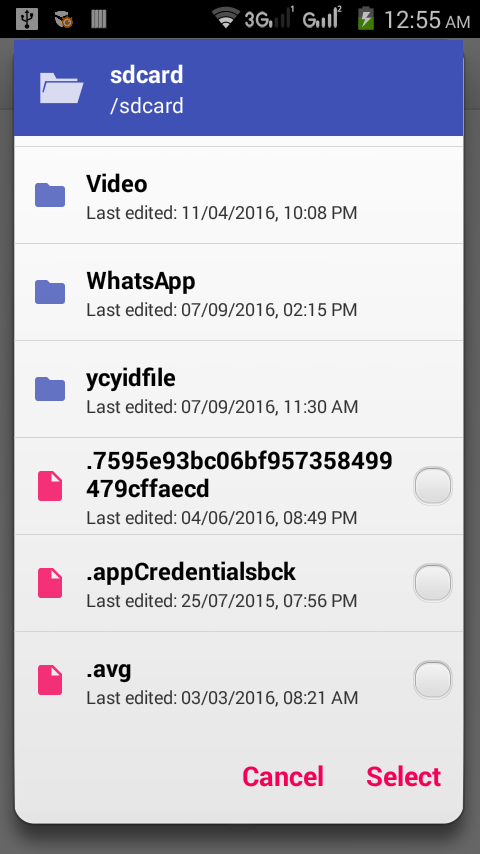
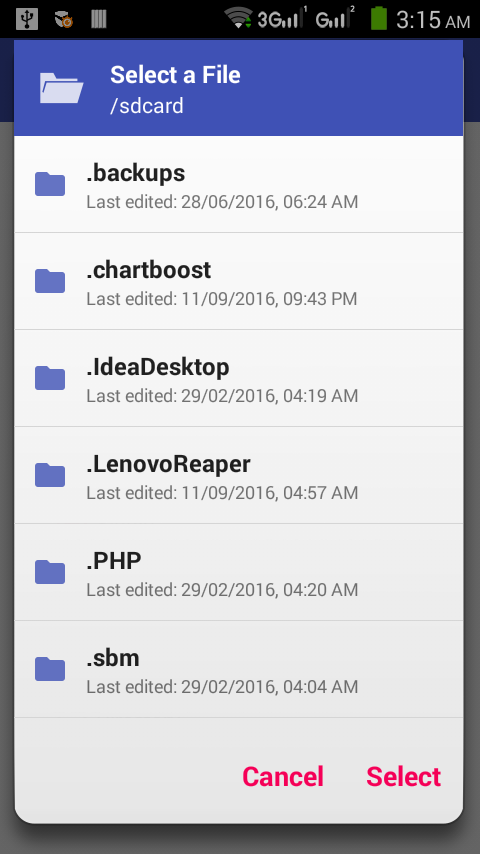
style: Updated readme.md and changed screenshot.

diff --git a/app/src/main/java/com/github/angads25/filepickerdemo/MainActivity.java b/app/src/main/java/com/github/angads25/filepickerdemo/MainActivity.java
@@ -59,6 +59,7 @@ public class MainActivity extends AppCompatActivity
 
         //Instantiate FilePickerDialog with Context and DialogProperties.
         dialog=new FilePickerDialog(MainActivity.this,properties);
+        dialog.setTitle("Select a File");
         RadioGroup modeRadio=(RadioGroup)findViewById(R.id.modeRadio);
         modeRadio.check(R.id.singleRadio);
         modeRadio.setOnCheckedChangeListener(new RadioGroup.OnCheckedChangeListener() {

diff --git a/Readme.md b/Readme.md
@@ -5,7 +5,7 @@ Android Library to select files/directories from Device Storage.
 [Angad Singh](https://www.github.com/angads25) ([@angads25](https://www.twitter.com/angads25))
 
 ### Benchmark:
-[![API](https://img.shields.io/badge/API-9%2B-brightgreen.svg?style=flat)](https://android-arsenal.com/api?level=9) <a href="http://www.methodscount.com/?lib=com.github.angads25%3Afilepicker%3A1.0.4"><img src="https://img.shields.io/badge/Size-28 KB-e91e63.svg"/></a>
+[![API](https://img.shields.io/badge/API-9%2B-brightgreen.svg?style=flat)](https://android-arsenal.com/api?level=9) <a href="http://www.methodscount.com/?lib=com.github.angads25%3Afilepicker%3A1.0.5"><img src="https://img.shields.io/badge/Size-28 KB-e91e63.svg"/></a>
 
 ### Where to Find:
 [ ![Download](https://api.bintray.com/packages/angads25/maven/filepicker/images/download.svg) ](https://bintray.com/angads25/maven/filepicker/_latestVersion) [![Maven Central](https://maven-badges.herokuapp.com/maven-central/com.github.angads25/filepicker/badge.svg)](https://maven-badges.herokuapp.com/maven-central/com.github.angads25/filepicker) [![Android Arsenal](https://img.shields.io/badge/Android%20Arsenal-FilePicker-blue.svg?style=flat)](http://android-arsenal.com/details/1/3950)
@@ -23,7 +23,7 @@ Android Library to select files/directories from Device Storage.
 
 * Library is also Available in MavenCentral, So just put this in your app dependencies to use it:
 ```gradle
-    compile 'com.github.angads25:filepicker:1.0.4   '
+    compile 'com.github.angads25:filepicker:1.0.5   '
 ```
 
 ### Usage
@@ -46,10 +46,11 @@ Android Library to select files/directories from Device Storage.
         properties.extensions=null;
     ```
 
-3. Next create an instance of `FilePickerDialog`, and pass `Context` and `DialogProperties` references as parameters.
+3. Next create an instance of `FilePickerDialog`, and pass `Context` and `DialogProperties` references as parameters. Optional: You can change the title of dialog. Default is current directory name.
 
     ```java
         FilePickerDialog dialog = new FilePickerDialog(MainActivity.this,properties);
+        dialog.setTitle("Select a File");
     ```
 
 4.  Next, Attach `DialogSelectionListener` to `FilePickerDialog` as below,
@@ -102,6 +103,7 @@ Marshmallow and further requests for the permission on runtime. You should overr
            android:title="Pick a Directory"
            android:summary="Just a Summary"
            android:defaultValue="/sdcard:/mnt"
+           app:title="Select Directories"
            app:error_dir="/mnt"
            app:root_dir="/sdcard"
            app:selection_mode="multi_mode"
